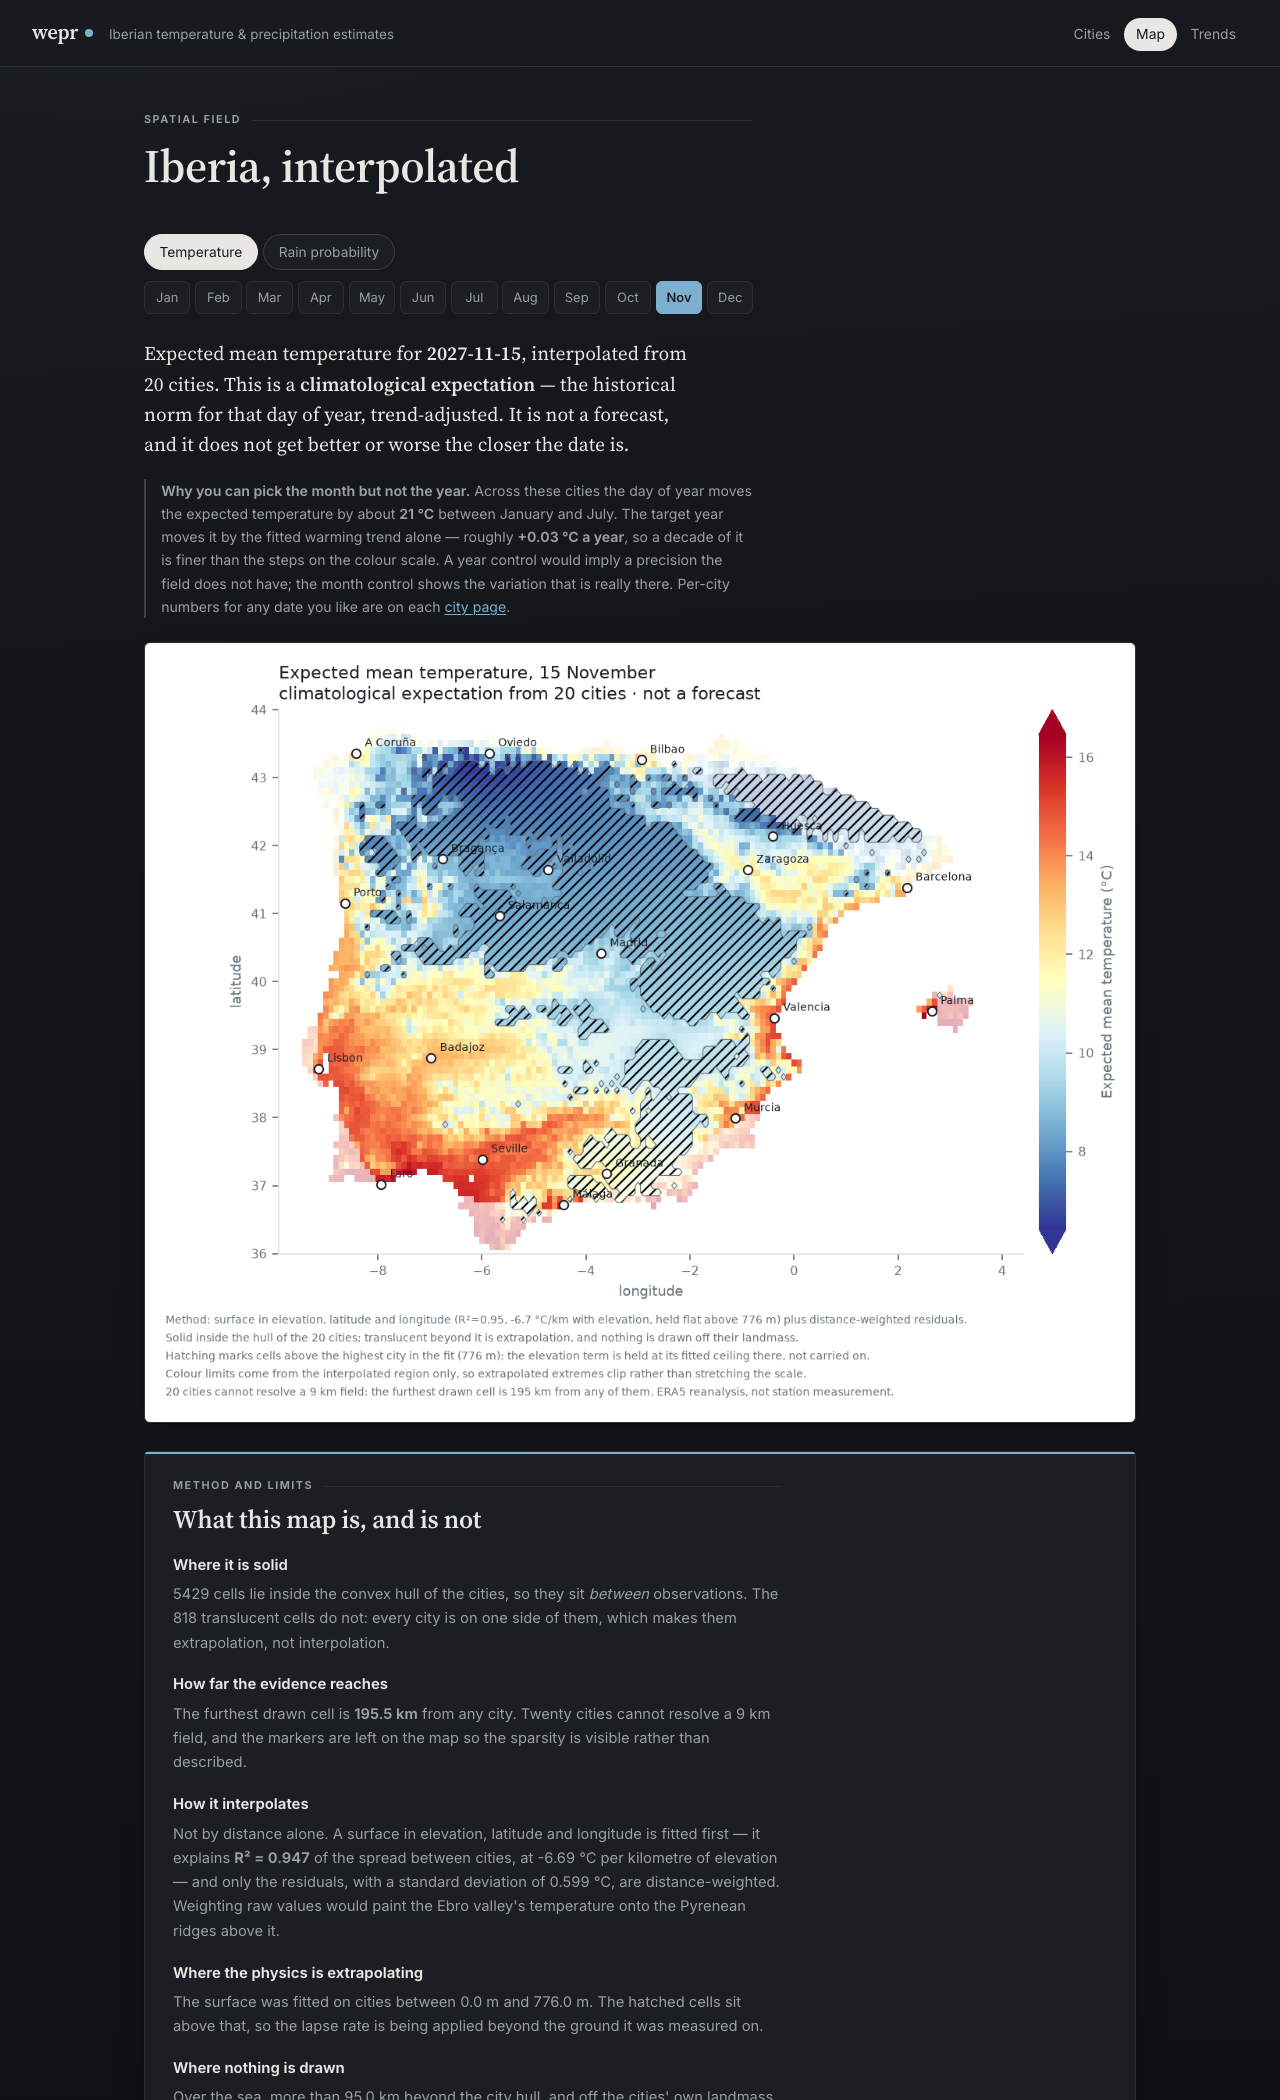
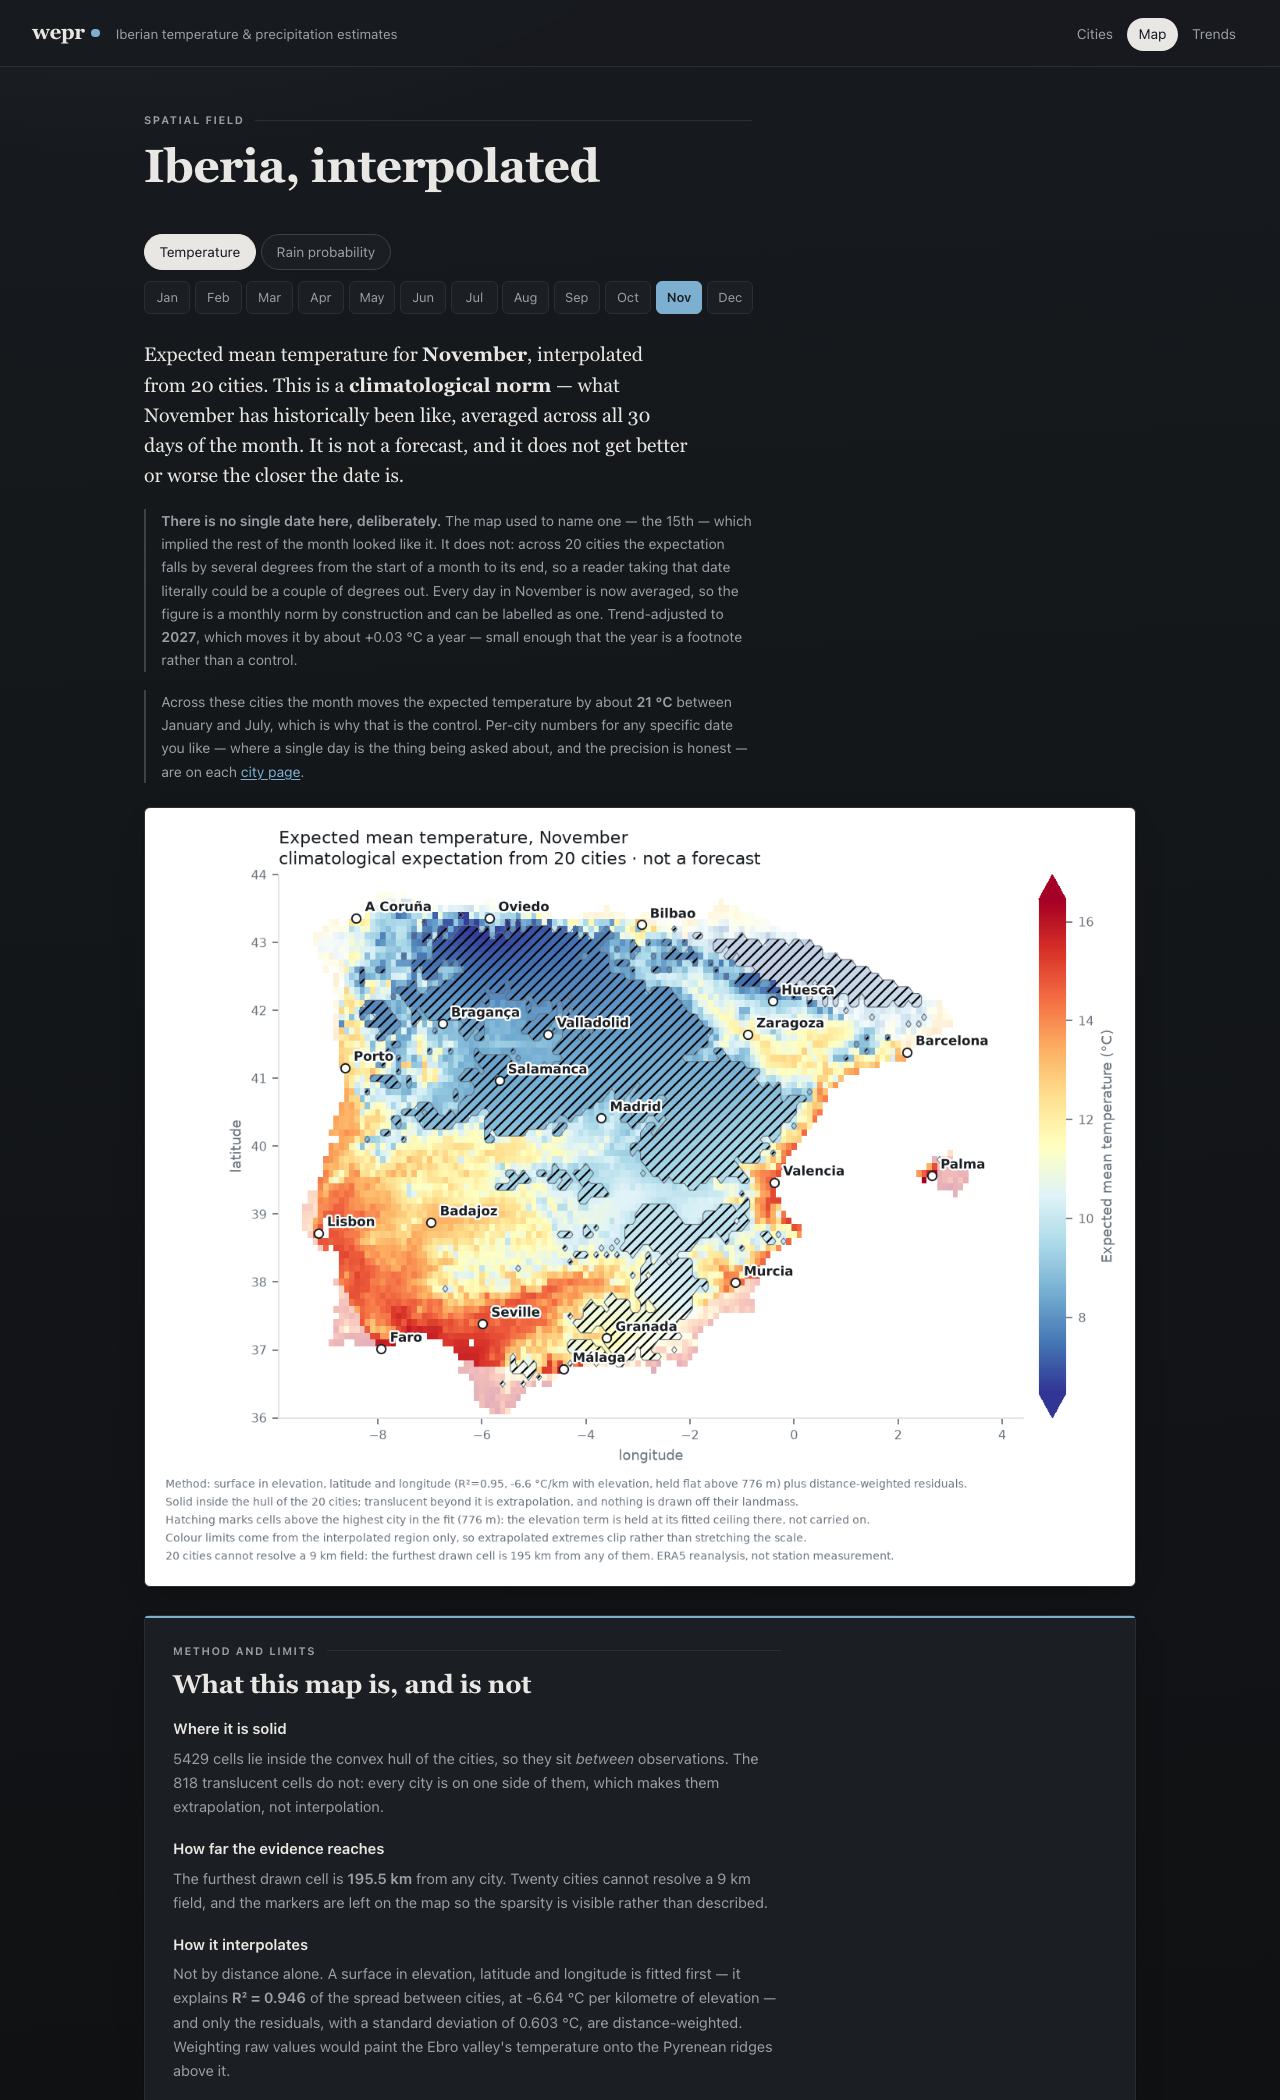
Refresh the map screenshot and the test count
The map screenshot still showed `2027-11-15` and the old cramped city
labels, which contradicted the prose beside it now that each map is a
monthly norm. Recaptured against the current page.

Test count 450 -> 455. The badge is the kind of number that silently
goes stale, so it is checked against the suite rather than remembered.

diff --git a/README.md b/README.md
@@ -6,7 +6,7 @@ served by a Flask app from models trained on 76 years of ECMWF reanalysis.**
 ![Python](https://img.shields.io/badge/python-3.11%2B-3776ab)
 ![Flask](https://img.shields.io/badge/Flask-3.1-000000)
 ![scikit-learn](https://img.shields.io/badge/scikit--learn-1.9-f7931e)
-![Tests](https://img.shields.io/badge/tests-450-2a7f62)
+![Tests](https://img.shields.io/badge/tests-455-2a7f62)
 ![Licence](https://img.shields.io/badge/licence-MIT-blue)
 
 | | |
@@ -397,7 +397,7 @@ cd wepr
 python3.11 -m venv .venv
 .venv/bin/python -m pip install -r requirements-dev.txt
 .venv/bin/python -m pip install -e .
-.venv/bin/python -m pytest          # 450 tests, no network required
+.venv/bin/python -m pytest          # 455 tests, no network required
 .venv/bin/python run.py             # http://localhost:8000
 ```
 
@@ -441,7 +441,7 @@ interruptions to build, and it resumes from a partial file precisely because of 
 
 ## What the tests guard
 
-450 tests, no network, no trained models required. They are not coverage theatre — most
+455 tests, no network, no trained models required. They are not coverage theatre — most
 exist because something specific went wrong once:
 
 | Area | What it holds |
